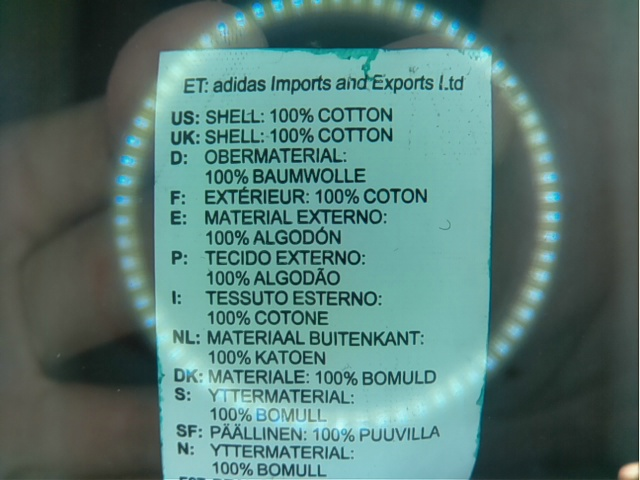
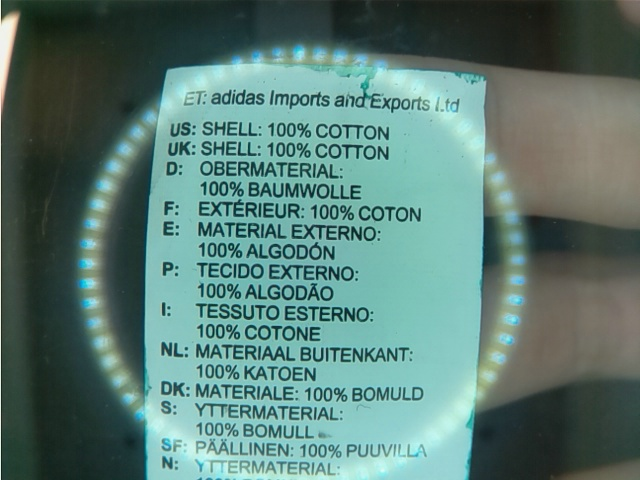
new changes

diff --git a/scanalgo.py b/scanalgo.py
@@ -47,23 +47,26 @@ class ScanAlgo:
         global led
         # GPIO.output(led, True)
         ret, self.frame1 = self.camera.read()
+        self.frame1 = cv2.rotate(self.frame1, cv2.ROTATE_180)
         cv2.imwrite('img1.jpg', self.frame1)
         # GPIO.output(led, False)
         sleep(0.05)
 
         # GPIO.output(led, True)
         ret, self.frame2 = self.camera.read()
+        self.frame2 = cv2.rotate(self.frame2, cv2.ROTATE_180)
         # # cv2.imwrite('img2.jpg', frame1)
         # GPIO.output(led, False)
         sleep(0.05)
 
         # GPIO.output(led, True)
         ret, self.frame3 = self.camera.read()
+        self.frame3 = cv2.rotate(self.frame3, cv2.ROTATE_180)
         # # cv2.imwrite('img3.jpg', frame2)
         GPIO.output(led, False)
         sleep(0.05)
 
-        self.performOCR([self.frame1, self.frame2, self.frame3])
+        self.performOCR([self.frame1])
         # i = random.randint(1, 6)
         # tester = cv2.imread(f'test/test{i}.jpg')
         # print(f'test{i}.jpg')
